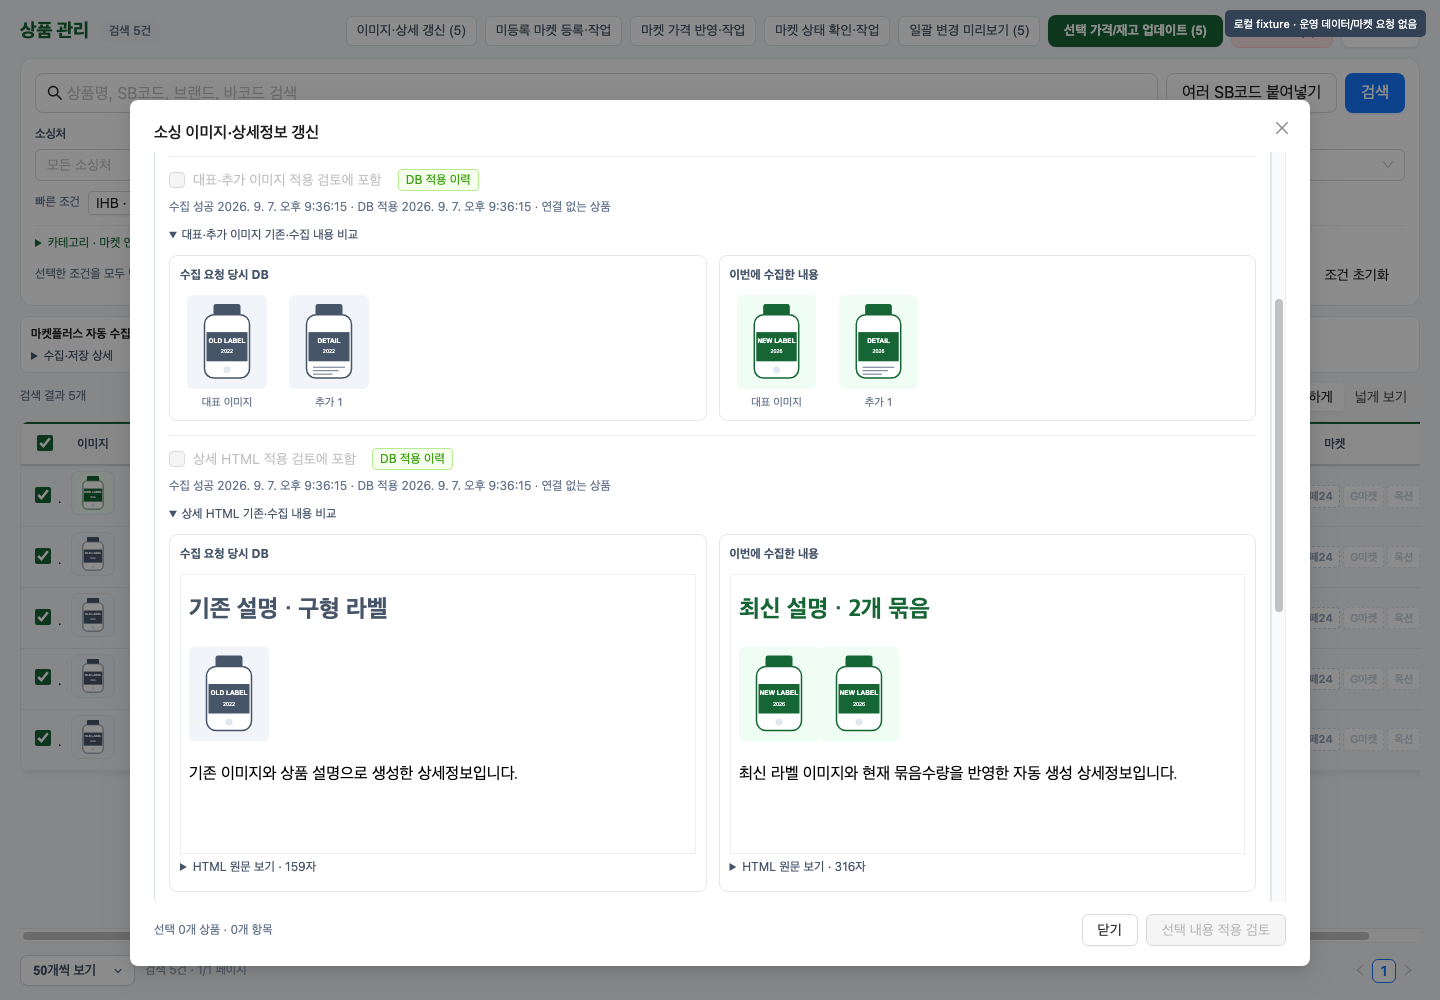
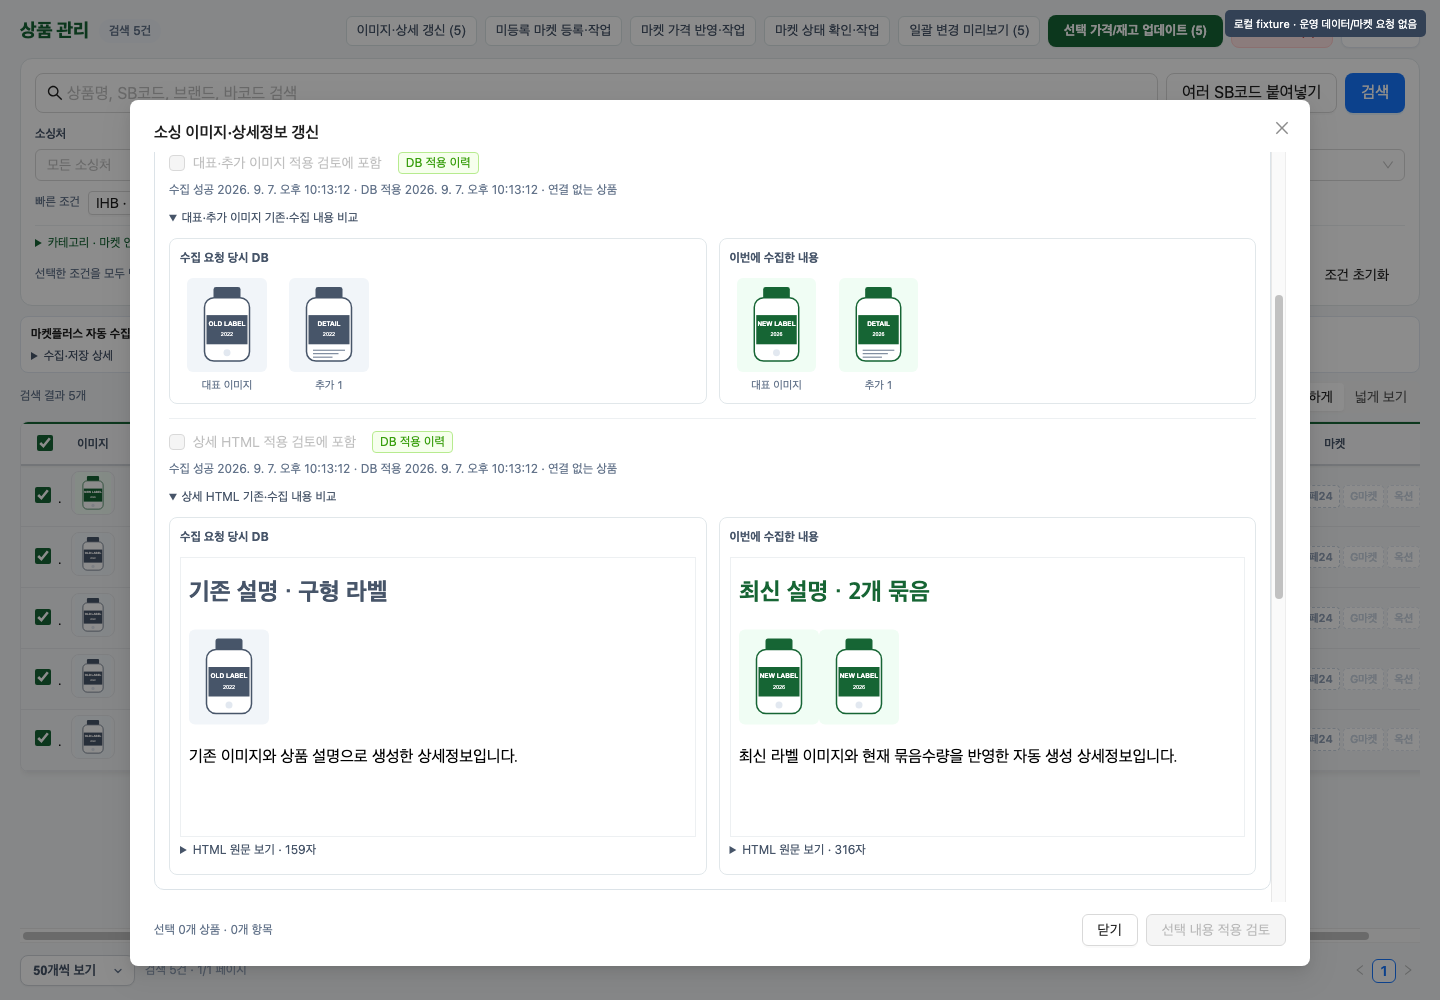
docs: record live content refresh verification and remaining scope [skip ci]

diff --git a/docs/design/2026-09-07-product-content-refresh.md b/docs/design/2026-09-07-product-content-refresh.md
@@ -1,6 +1,6 @@
 # 상품 소싱 콘텐츠 수집·비교·선택 반영
 
-2026-09-07 구현 단위. 이 문서의 신규 기능은 로컬 구현·검증 단계이며 운영 배포 및 실제 외부상품 변경을 완료했다는 뜻이 아니다.
+2026-09-07 구현·운영 배포 단위. 실제 IHB 상품 수집과 이미지 호스팅, 운영 Chrome 비교 화면까지 확인했다. 실제 DB 콘텐츠 저장·외부마켓 콘텐츠 쓰기 완료와 구분한다.
 
 ## 제공 범위
 
@@ -45,7 +45,7 @@ Snapshot에는 `id`, `productId`, `sbCode`, `revision`, `sourceUrl`, `vendor`, `
 - 소싱 adapter: HTML 정제, 다운로드 크기 초과 시 transport 취소, 이미지 목록이 비거나 상한을 넘을 때 성공 제외, 콘텐츠 수집의 전체 이미지 인덱스 보존과 기존 등록 5장 상한의 분리를 검증한다.
 - API: 인증 Principal 전달, 사용자 입력 source URL/actor를 적용하지 않음, 잘못된 요청·항목을 서비스 호출 전 거절한다.
 
-실제 IHB 수집 및 이미지 호스팅 운영 검증, 연결 마켓의 콘텐츠 수정 가능 필드 확인, 이미지·HTML의 외부마켓 쓰기 및 readback은 별도 완료 조건으로 남는다.
+연결 마켓의 콘텐츠 수정 가능 필드 확인, 실제 DB 콘텐츠 적용 및 이미지·HTML의 외부마켓 쓰기/readback은 별도 완료 조건으로 남는다.
 
 ## 통합 검사와 기존 수집 보완
 
@@ -66,3 +66,18 @@ Snapshot에는 `id`, `productId`, `sbCode`, `revision`, `sourceUrl`, `vendor`, `
 상세 본문은 확인된 `description`, `ingredients`, `suggestedUse`, `supplementFacts`, `warnings`, `disclaimer`, `specialNote` 문자열 항목으로 구성한 뒤 기존 허용 목록 정제를 적용한다. 다른 형태의 대체 필드를 추정하지 않는다. 확인한 표본은 1건이고 추가 2건은 조회 실패로 응답 구조를 검증하지 못했으므로, 미확인 형식은 명시적으로 실패하도록 유지한다. 기존 신규 상품등록 parser의 필드 조합은 이 수정에서 변경하지 않았다.
 
 안전한 고정 사유인 `SOURCE_NAME_MISSING`, `SOURCE_IDENTITY_MISMATCH`, `SOURCE_IMAGES_INVALID`, `SOURCE_DETAILS_INVALID`, `SOURCE_HTTP_FAILED` 등을 수집 결과에 보존한다. 원본 응답·임의 예외 메시지를 사용자 화면에 노출하지 않는다. 실제 응답에서 계약 검증에 필요한 필드만 남긴 fixture와 HTTP 경로 회귀를 포함한 scoped 검사 **31건(Core 14 / 인프라 17)**이 통과했다. 이는 수정 후 운영 수집 재검증 완료와 구분한다.
+
+
+## 운영 배포·실상품·Chrome 검증
+
+초기 콘텐츠 기능 `b4831b9c` 배포 전에 PostgreSQL 백업(9,522,918 bytes)을 만들고 복원 목록을 검증했다. 명시적 DDL로 4개 콘텐츠 테이블과 IHB lane을 추가한 뒤, 실제 새 배포 JAR의 36개 엔티티를 읽기 전용 validate했다. 운영 `DDL_AUTO=validate`를 유지했다. API·프론트를 전환했고 상품 조회 및 새 이력 조회가 HTTP 200임을 확인했다. [초기 배포 기록](evidence/2026-09-07-product-content-deployment-initial.json).
+
+첫 실상품 수집은 위에 설명한 계약 차이로 실패했다. 실패 이력을 삭제하지 않고 보존했다. `8f935631` 수정 API의 실제 JAR도 36개 엔티티를 validate한 뒤 API만 교체했다. 이 수정에는 DDL 변경이 없었다. [초기 실패](evidence/2026-09-07-product-content-pilot-initial-failure.json), [수정 배포](evidence/2026-09-07-product-content-deployment-fix.json), [수정 후 관련 검사 31건](evidence/2026-09-07-product-content-contract-fix-tests.json).
+
+새 요청으로 같은 운영 상품 **328 / SB 210121IHB031**을 재수집한 결과 `READY`가 됐다. 소싱 이미지 3개를 실제 다운로드·변환·호스팅했고 상세 HTML 2,985자를 생성했다. 이미지·HTML 각각의 수집 성공 시각은 **2026-09-07 22:07:41 KST**이며 DB 적용 시각은 비어 있다. 요청 전후 상품명·소스 이미지·호스팅 이미지·상세 HTML 해시가 일치했다. 같은 requestId를 재전송하면 같은 collection을 반환했다. 연결 상품이므로 두 필드는 `VERIFICATION_REQUIRED` 잠금을 유지한다. [실상품 결과](evidence/2026-09-07-product-content-pilot.json).
+
+운영 서버의 실제 Chrome에서 검색 → 상품 선택 → 이미지·상세 갱신 → 수집 이력 비교를 실행했다. 실제 API 검색·이력 조회는 200이고 페이지 오류는 없었다. 기존 4장과 신규 3장 모두 로드됐으며 기존/신규 HTML iframe은 빈 sandbox를 유지했다. 잠금 체크박스는 비활성 상태였다. 검사 중 수집기를 잠시 쉬게 한 뒤 원래 마켓플러스 탭 1개와 collect/upload=true를 복원했다. [실제 Chrome 결과](evidence/2026-09-07-product-content-live-chrome.json), [운영 화면](evidence/2026-09-07-product-content-live-chrome.png).
+
+이번 검증은 수집·비교만 실행했다. 운영 상품 콘텐츠를 저장하거나 외부마켓 상품을 수정하지 않았다. DB 선택 적용의 원자성·충돌·잠금·이력은 자동 통합 테스트로 확인한 범위다.
+
+운영 화면에서 안내가 길어 비교 이미지가 아래로 밀리는 점을 확인하고 프론트 `a2ef2e51`에서 상단 안내를 줄였다. 정상 수집 참고 사항은 접고, 실패·부분 실패의 구체 사유는 기본 펼침 상태로 유지한다. TypeScript·Vite와 Chrome fixture 11개를 다시 확인했다. 최종 프론트 배포와 실제 Chrome 결과는 각각 [프론트 배포 기록](evidence/2026-09-07-product-content-deployment-ui.json), 위 운영 Chrome 증거를 따른다.

diff --git a/docs/design/2026-09-07-product-progress-summary.md b/docs/design/2026-09-07-product-progress-summary.md
@@ -1,17 +1,17 @@
 # 상품 관리 개편 진행 요약 — 2026-09-07
 
-사용자 요청에 따라 운영 반영된 범위와 남은 범위를 분리했다. 이 표의 운영 기준은 `545f06fd` 배포 및 이번 턴의 컨테이너 재확인이다. API·프론트·마켓플러스 브라우저/수집기 모두 실행 중이고 재시작 횟수는 0이다.
+사용자 요청에 따라 운영 반영된 범위와 남은 범위를 분리했다. 2026-09-07 콘텐츠 갱신 기능을 추가 배포했고, 실제 IHB 상품의 수집·이미지 호스팅·운영 Chrome 비교 화면을 확인했다. 정확한 배포 버전과 증거는 아래 콘텐츠 갱신 기록에 남긴다.
 
 | 영역 | 운영에서 완료한 범위 | 남은 주요 범위 |
 | --- | --- | --- |
-| 화면·검색 | 새 그리드, 여러 SB코드 검색, 소싱처·브랜드·재고 및 등록/미등록 마켓 복합 조건 | 콘텐츠 최신성 필터·정렬, 화면 밀도 추가 개선 |
+| 화면·검색 | 새 그리드, 여러 SB코드 검색, 소싱처·브랜드·재고 및 등록/미등록 마켓 복합 조건 | 콘텐츠 최신성 필터·기본 정렬 완성 |
 | 시스템상품 편집 | 단건·숫자 일괄 검토/저장, 필드 잠금, 변경 이력 | 연결 상품의 비가격 필드 개방·비숫자 일괄 편집 |
-| 소싱 갱신 | 가격·재고 수집의 기존 기반 | 이미지·HTML 비교·선택 적용과 소싱처별 지원 확대 |
+| 소싱 갱신 | 가격·재고 수집 기반과 실패 처리 보완, IHB 이미지·HTML 수집/비교/시각, 선택 검토·DB 적용 경로 | 다른 소싱처 지원, 연결 상품 콘텐츠 적용 조건, 기존 가격·재고 배치의 새 검토 흐름 통합 |
 | 외부마켓 동기화 | 일부 마켓의 검토 가격 작업·실패·재조회, 마켓플러스 관측 수집 | 재고·이미지·HTML 등 전체 필드 작업, 최종 값 확인, 자동 재전송 |
 | 연결·재등록 | 연결 해제·이력, 스마트스토어 정기 점검·검토 등록 | 다른 마켓 정기 점검·검토 등록, 생성 결과 불명 해소 확대 |
-| 운영 | 통합 배포·실제 Chrome 점검·수집기 가동 | 새 기능 통합 배포·실제 필드 반영 검증 |
+| 운영 | 콘텐츠 기능 배포·실상품 수집·실제 Chrome 점검·수집기 가동 | 실제 외부마켓 필드 반영 검증, 미적용 후보 파일·스냅샷 보관/정리 정책 |
 
-전체 진행률은 **약 60% (추정 범위 55~65%)**로 산정했다. 기준은 코드 줄 수나 테스트 개수가 아니라 원요구를 운영에서 충족한 범위다. 화면/검색 20, DB 편집 15, 소싱 갱신 15, 외부 동기화 25, 연결 점검 10, 검토 등록 10, 운영 전환 5의 상대 비중으로 보고, 중요한 전체 필드 동기화·콘텐츠 최신화·나머지 마켓 등록의 미완성을 크게 반영했다. 전체 필드 편집과 실제 마켓 반영 검증 전에는 완료율을 80~90%로 올리지 않는다.
+전체 진행률은 **약 60% (추정 범위 55~65%)**로 산정했다. 각 영역의 미완성 기능과 실제 운영 검증 여부를 반영한 실무 추정치이며, 모든 마켓의 구현 체크리스트가 동일한 분량이라는 뜻은 아니다. 기준은 코드 줄 수나 테스트 개수가 아니라 원요구를 운영에서 충족한 범위다. 화면/검색 20, DB 편집 15, 소싱 갱신 15, 외부 동기화 25, 연결 점검 10, 검토 등록 10, 운영 전환 5의 상대 비중으로 보고, 중요한 전체 필드 동기화·연결 상품 콘텐츠 적용·나머지 마켓 등록의 미완성을 크게 반영했다. 전체 필드 편집과 실제 마켓 반영 검증 전에는 완료율을 80~90%로 올리지 않는다.
 
 이번에는 사용자가 서브에이전트 활용을 명시적으로 요청하여 다음처럼 병렬 진행했다.
 
@@ -22,6 +22,8 @@
 | 계약 감사 에이전트 | 프로젝트·Downloads·공식 API 근거 재검토, 독립 코드리뷰, 잘못된 IHB 재고 응답 보완 |
 | 주 에이전트 | 기존 재고 수집의 거짓 성공·트랜잭션/충돌 수정, Retry-After 연계, PostgreSQL DDL 검증, 전체 통합 |
 
-현재 새 구현 단위의 상세 범위와 검증/배포 상태는 [콘텐츠 갱신 기록](2026-09-07-product-content-refresh.md)을 따른다. 새 로컬 코드를 운영 완료 범위로 미리 가산하지 않는다. [마켓별 미완성 필드와 필요한 근거](2026-09-07-market-field-remaining-audit.md)를 함께 유지한다.
+이번 실상품 검증은 SB `210121IHB031`의 기존 이미지 4장과 신규 3장, 생성 HTML 2,985자, 중복 수집 방지, DB 미변경을 확인했다. 마켓 연결이 있어 콘텐츠 적용은 잠금 상태다. 선택 적용은 통합 테스트로 검증했으며 실제 운영 상품을 임의 변경하지 않았다.
+
+새 구현 단위의 상세 범위와 검증/배포 상태는 [콘텐츠 갱신 기록](2026-09-07-product-content-refresh.md)을 따른다. 새 로컬 코드를 운영 완료 범위로 미리 가산하지 않는다. [마켓별 미완성 필드와 필요한 근거](2026-09-07-market-field-remaining-audit.md)를 함께 유지한다.
 
 확인 대기: 다른 마켓 과거 상품의 현재 계정 귀속(Q26), 11번가 가격 인상에 따른 협의 혜택 종료 가능성 처리(Q28), 11번가 재고 수량 수정/조회 상세 문서(Q27). Q27은 자료 전체가 없는 것이 아니라 수량 전용 수정·확인 계약이 부족하다. 카페24 재인증이나 마켓플러스 공개 API를 다시 요구하지 않는다.
